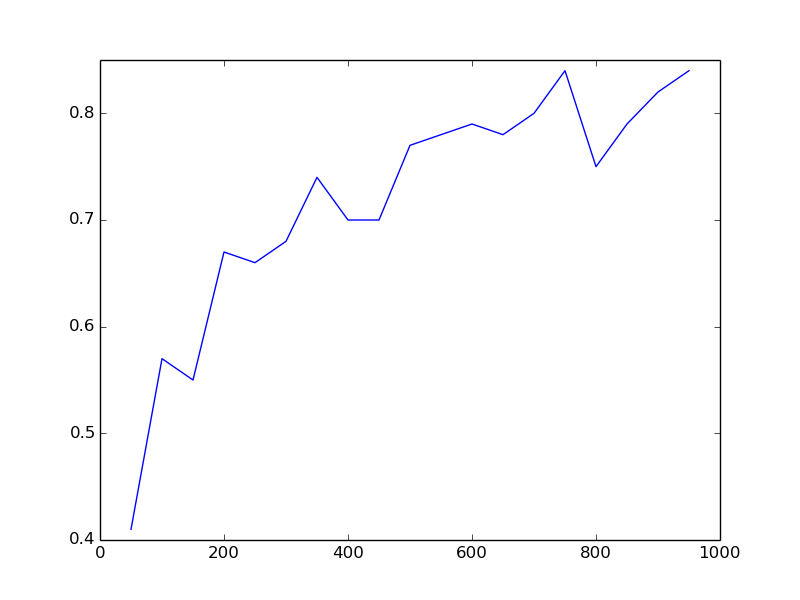
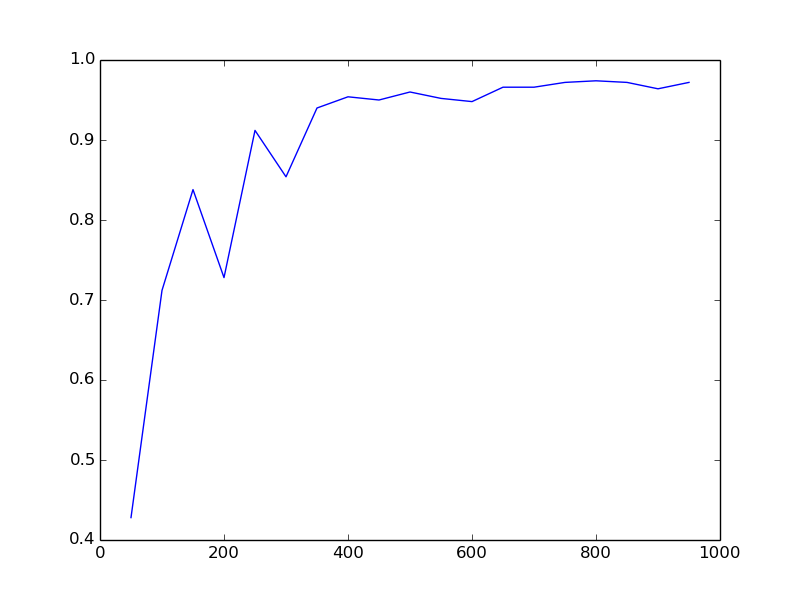
Remade some experiments with exp2

diff --git a/exp2.py b/exp2.py
@@ -9,6 +9,12 @@ from matplotlib import pyplot
 from NN import NeuralNetwork
 
 
+default_its = 500
+default_step = 0.5
+default_train = 1000
+default_test = 500
+
+
 def printResults(input_vec, results):
     """
     Prints results, which are a list
@@ -145,15 +151,15 @@ def default():
     net = NeuralNetwork([2, 4])
 
     print("=== Training Samples ===")
-    train_data = makeRandomData(5000)
+    train_data = makeRandomData(default_train)
 
     print("")
     print("=== Random Testing Samples ===")
-    test_data = makeRandomData(1000)
+    test_data = makeRandomData(default_test)
 
     print("")
     print("=== Starting training ===")
-    net.train(train_data, its=500, step=0.5, verbose=True)
+    net.train(train_data, its=default_its, step=default_step, verbose=True)
 
     print("")
     print("=== Starting random tests ===")
@@ -164,10 +170,14 @@ def default():
     makeFixedTests(net)
 
 
-def exp_its_var(res_file_name):
-    net = NeuralNetwork([2, 4])
-    train_data = makeRandomData(100, verbose=False)
-    test_data = makeRandomData(100, verbose=False)
+def exp_its_var(res_file_name, middle_layer=None):
+    if middle_layer is None:
+        net = NeuralNetwork([2, 4])
+    else:
+        net = NeuralNetwork([2, middle_layer, 4])
+
+    train_data = makeRandomData(default_train, verbose=False)
+    test_data = makeRandomData(default_test, verbose=False)
 
     res = []
     for i in range(0, 1000, 50):
@@ -177,7 +187,7 @@ def exp_its_var(res_file_name):
         print("Iterations: %s" % (i))
 
         net.resetNetwork()
-        net.train(train_data, its=i, step=0.5)
+        net.train(train_data, its=i, step=default_step)
         res.append(calcHitRate(net, test_data))
 
     # Plot
@@ -186,10 +196,14 @@ def exp_its_var(res_file_name):
     pyplot.close()
 
 
-def exp_step_var(res_file_name):
-    net = NeuralNetwork([2, 4])
-    train_data = makeRandomData(100, verbose=False)
-    test_data = makeRandomData(100, verbose=False)
+def exp_step_var(res_file_name, middle_layer=None):
+    if middle_layer is None:
+        net = NeuralNetwork([2, 4])
+    else:
+        net = NeuralNetwork([2, middle_layer, 4])
+
+    train_data = makeRandomData(default_train, verbose=False)
+    test_data = makeRandomData(default_test, verbose=False)
 
     res_i = []
     res_net = []
@@ -198,7 +212,7 @@ def exp_step_var(res_file_name):
         print("Step: %s" % (i))
 
         net.resetNetwork()
-        net.train(train_data, its=500, step=i)
+        net.train(train_data, its=default_its, step=i)
         res_i.append(i)
         res_net.append(calcHitRate(net, test_data))
 
@@ -210,8 +224,11 @@ def exp_step_var(res_file_name):
     pyplot.close()
 
 
-def exp_train_var(res_file_name):
-    net = NeuralNetwork([2, 4])
+def exp_train_var(res_file_name, middle_layer=None):
+    if middle_layer is None:
+        net = NeuralNetwork([2, 4])
+    else:
+        net = NeuralNetwork([2, middle_layer, 4])
 
     res = []
     test_data = makeRandomData(500, verbose=False)
@@ -224,7 +241,7 @@ def exp_train_var(res_file_name):
         train_data = makeRandomData(i, verbose=False)
 
         net.resetNetwork()
-        net.train(train_data, its=500, step=0.5)
+        net.train(train_data, its=default_its, step=default_step)
         res.append(calcHitRate(net, test_data))
 
     # Plot
@@ -237,12 +254,26 @@ if __name__ == "__main__":
     # If there are no arguments, just run the default experiment
     if len(sys.argv) <= 1:
         default()
+        exit()
 
-    elif sys.argv[1] == "its_var":
-        exp_its_var("exp2_results/" + sys.argv[1] + "_res.png")
+    # Check if there is any argument for middle layer
+    if len(sys.argv) == 3:
+        middle_layer = int(sys.argv[2])
+    else:
+        middle_layer = None
+
+    # Make name
+    name = "exp2_results/" + sys.argv[1]
+    if middle_layer is not None:
+        name += "_" + str(middle_layer)
+    name += "_res.png"
+
+    # Make experiment
+    if sys.argv[1] == "its_var":
+        exp_its_var(name, middle_layer)
 
     elif sys.argv[1] == "step_var":
-        exp_step_var("exp2_results/" + sys.argv[1] + "_res.png")
+        exp_step_var(name, middle_layer)
 
     elif sys.argv[1] == "train_var":
-        exp_train_var("exp2_results/" + sys.argv[1] + "_res.png")
+        exp_train_var(name, middle_layer)

diff --git a/mnist_exp.py b/mnist_exp.py
@@ -45,7 +45,7 @@ def trainNetwork(net, batch_size, train_its, train_step, verbose=True):
     while i < imgs_num:
         training = []
 
-        for j in range(batch_size):
+        for j in range(min(batch_size, imgs_num-i)):
             net_in = [[k/255] for k in imgs.read(28*28)]
             net_out = [[0] for k in range(10)]
             net_out[ord(labels.read(1))][0] = 1.0
